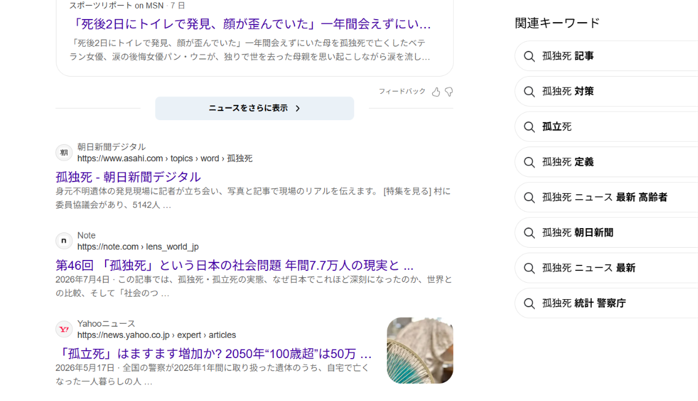
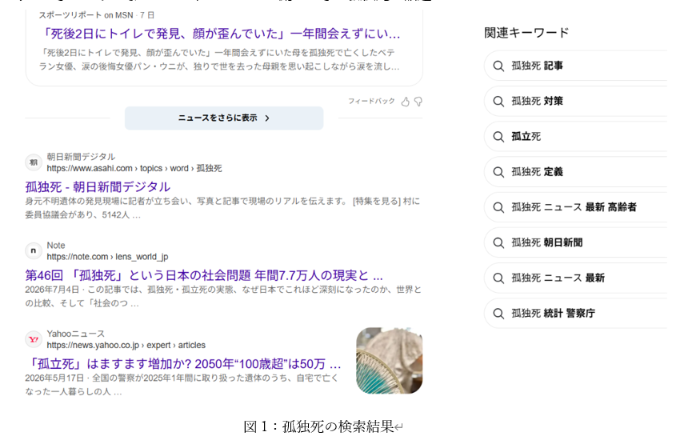
更新

diff --git a/posts/blog3.md b/posts/blog3.md
@@ -42,12 +42,20 @@ date: 2026-11-17
 しかし、世の中には、ごくわずかな電力で動作する無線通信技術がある。
 
 例えば、店舗の盗難防止タグなどには、外部から受け取った電波のエネルギーを利用して瞬間的に動作し、識別情報を送信するものがある。
+
+![図1](../images/3_2.png)
+
 もちろん、これらは圧電素子による発電とは原理が異なるが、微小な電力でも情報をやり取りできるという点では参考になる。
 歩行時に足裏へ加わる圧力や変形を利用して発電し、その電力を微小なコンデンサに蓄え、一定量の電力が確保できたら短い信号を送信する。数歩歩くごとに発電した電力を蓄積し、発信器固有の識別情報を送り、住宅内などに設置された受信機がその信号を受け取る。
 
 こうすれば、少なくとも「その人がいつ、どの受信機の近くで活動していたか」が分かるのではないだろうか。
 
-筆者はこのような装置が実際にあるのかを調べていないので、実際あるのかさえ分かっていない。
-実用化するにしても子機側の耐久性や装着時の違和感、通信距離など技術的に難しいところが多いだろう。
+![図1](../images/3_3.png)
+
+このように、母機は常にコンセントにより給電され、子機の電力を気にしなくていい仕組みであればメンテナンスも省くことができる。
+筆者はこのような装置があるのかは知らないが、少なくとも、電熱機能付きの靴下は見たことがある。
+すでにこのような製品があるならば、十分に実用化の見込みもあるのではないだろうか。もちろん、子機側の耐久性や通信距離など技術的に難しいところが多いだろう。
 （それ以前に、どうやって街中に母機（受信機）を置くというのか…）
-しかし、実現性などはひとまず置いておき、ふとした発想をより具体化するという行為は、生きていく中でもそれなりに大切なのではないだろうか。
+しかし、難しいことはひとまず置いておき、ふとした発想をより具体化するという行為は、生きていく中でもそれなりに大切だと筆者は考える。
+
+
